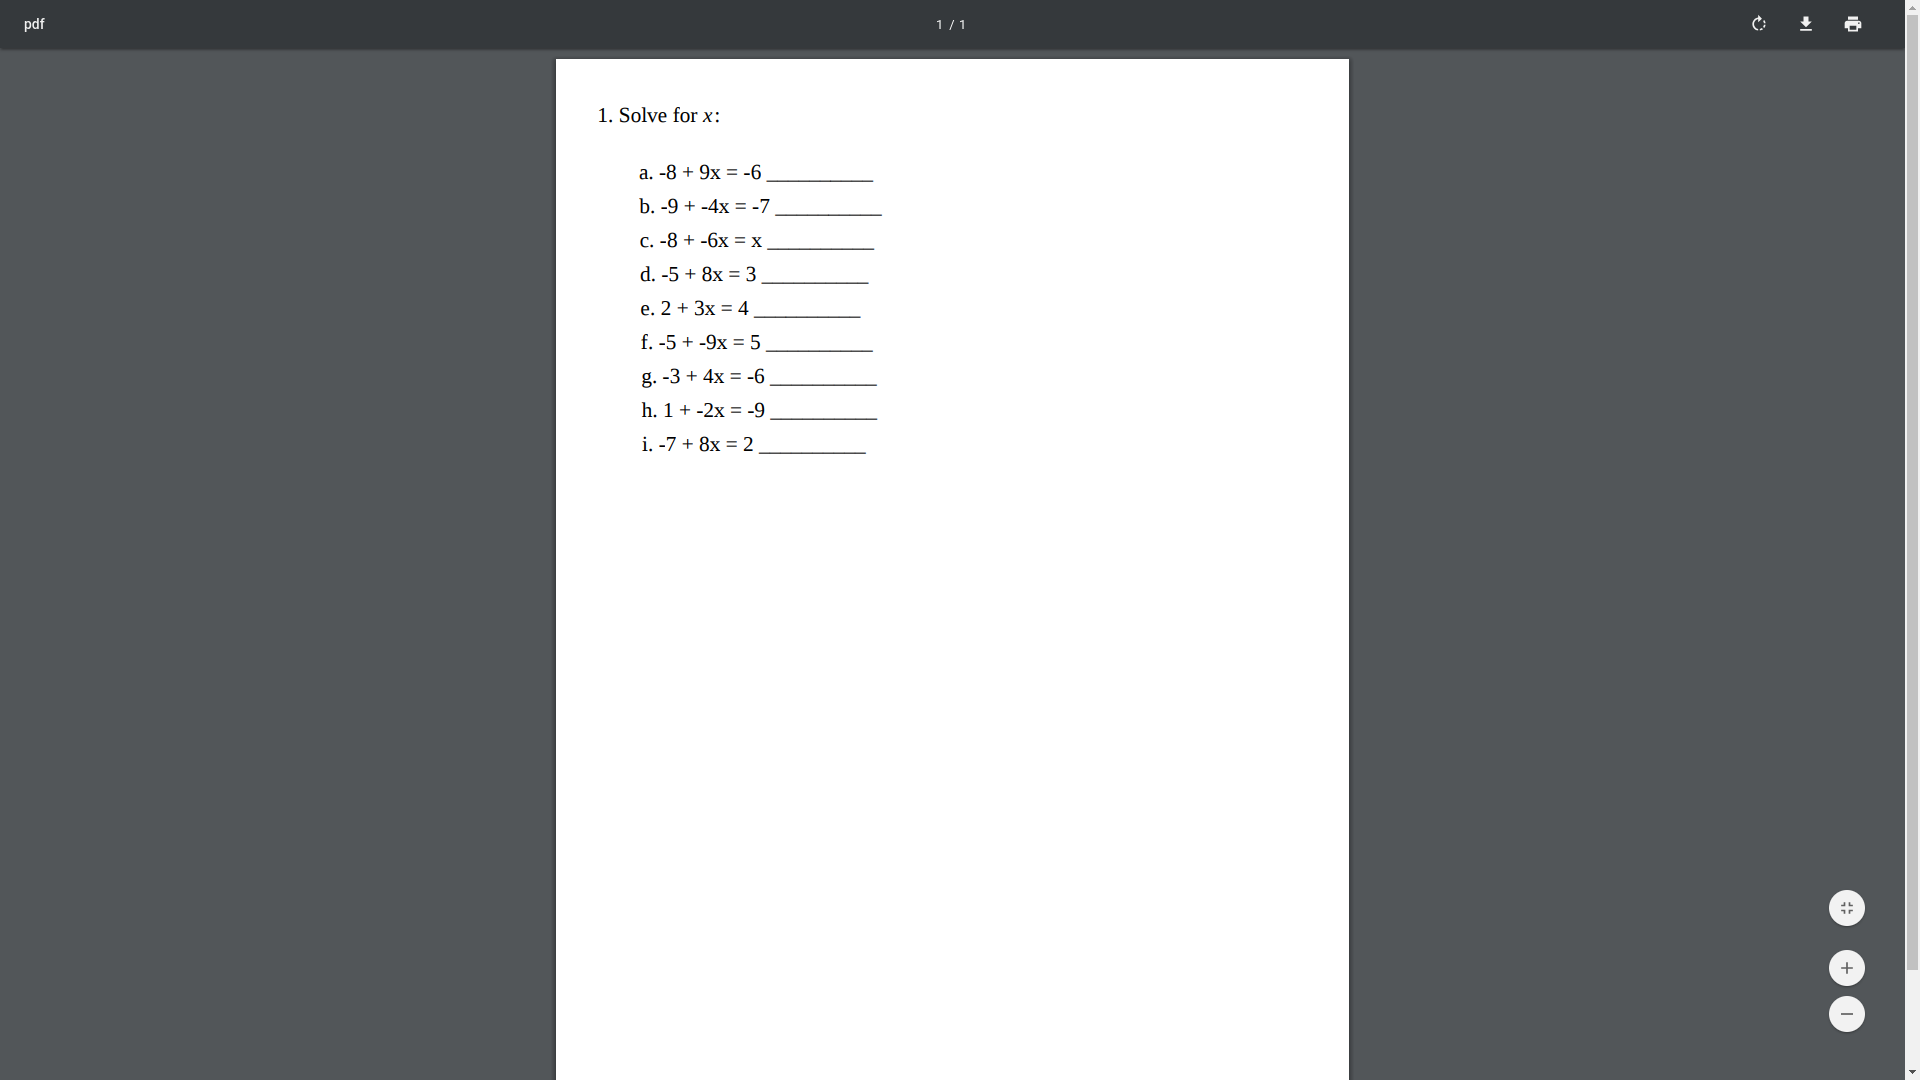
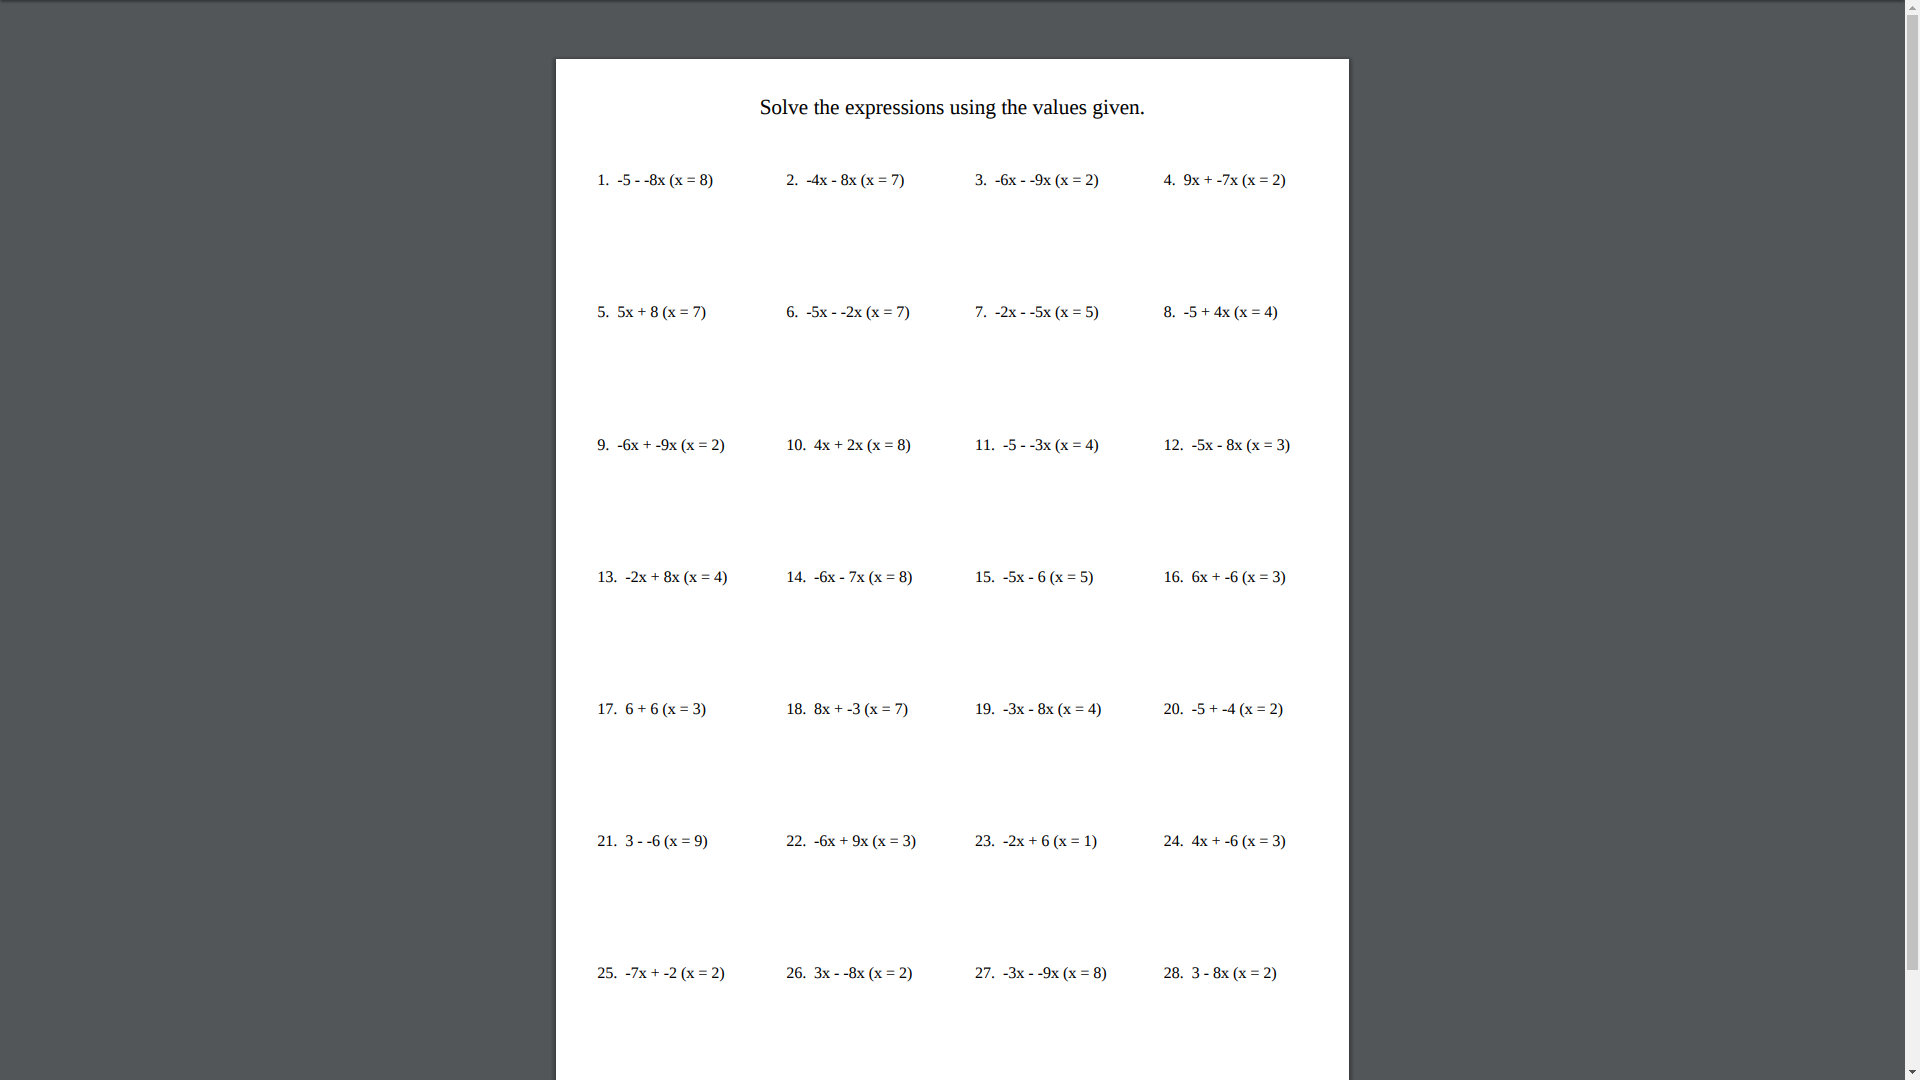
Reworked pdf engine

diff --git a/main.go b/main.go
@@ -25,6 +25,14 @@ func randbool() bool {
 	}
 }
 
+// I just grabbed this code from
+// golangcookbook.com/chapters/arrays/reverse
+func reverse(numbers []string) {
+	for i, j := 0, len(numbers)-1; i < j; i, j = i+1, j-1 {
+		numbers[i], numbers[j] = numbers[j], numbers[i]
+	}
+}
+
 func loopT(n int) []Term {
 	termSlice := make([]Term, 0)
 	for i := 0; i < n; i++ {
@@ -42,6 +50,9 @@ type Term struct {
 	Degree      int
 }
 
+// GenTerm generates a completely
+// random term. This is the backbone
+// of the whole program.
 func GenTerm(degree int) Term {
 	rand.Seed(time.Now().UnixNano())
 	cof := rand.Intn(8) + 2
@@ -388,28 +399,44 @@ func main() {
 		pdf := gofpdf.New("P", "mm", "A4", "")
 		pdf.AddPage()
 		pdf.SetFont("Times", "", 16)
-		pdf.Cell(28, 10, "1. Solve for")
-		pdf.SetFont("Times", "I", 16)
-		pdf.Cell(3, 10, "x")
-		pdf.SetFont("Times", "", 16)
-		pdf.Cell(-20, 10, ":")
-		// make a for loop with lots of numbers representing the problems
-		// pdf.Cell(0.1, 40, "1. 12x * 3 = 4")
-		questions := make([]string, 0)
-		for i := 1; i < 10; i++ {
-			questions = append(questions, NewLinearEquation().FormatEquation())
+		pdf.CellFormat(190, 20, "Solve the expressions using the values given.", "", 1, "TC", false, 0, "")
+		dataSlice := make([]AlgebraExpr, 0)
+		data := make([]string, 0)
+		for i := 0; i < 28; i++ {
+			dataSlice = append(dataSlice, NewAlgebraExpr())
 		}
-		alphabet := "abcdefghijklmnopqrstuvwxyz"
-		var startPos float64 = 30
-		for i, v := range questions {
-			pdf.Cell(0.1, startPos+10, fmt.Sprintf("%s. %s __________", string(alphabet[i]), v))
-			startPos += 18
+		for i, v := range dataSlice {
+			data = append(data, fmt.Sprintf("%d.  %s", i+1, v.FormatExpr()))
 		}
-		w.Header().Set("Content-Type", "application/pdf")
+		reverse(data)
+		pdf.SetFont("Times", "", 12)
+		// WARNING UNREADABLE CODE AHEAD!
+		// READ AT YOUR OWN RISK!
+		for i := 1; i < 4; i++ {
+			for j := 1; j < 4; j++ {
+				var x string
+				x, data = data[len(data)-1], data[:len(data)-1]
+				pdf.CellFormat(50, 0, x, "", 0, "LT", false, 0, "")
+			}
+			var x string
+			x, data = data[len(data)-1], data[:len(data)-1]
+			pdf.CellFormat(50, 35, x, "", 1, "LT", false, 0, "")
+			for k := 1; k < 4; k++ {
+				x, data = data[len(data)-1], data[:len(data)-1]
+				pdf.CellFormat(50, 35, x, "", 0, "LT", false, 0, "")
+			}
+			x, data = data[len(data)-1], data[:len(data)-1]
+			pdf.CellFormat(50, 35, x, "", 1, "LT", false, 0, "")
+		}
+		var x string
+		for j := 1; j < 5; j++ {
+			x, data = data[len(data)-1], data[:len(data)-1]
+			pdf.CellFormat(50, 0, x, "", 0, "LT", false, 0, "")
+		}
 		err := pdf.Output(w)
 		if err != nil {
-			w.Header().Set("Content-Type", "application/json")
-			fmt.Fprintf(w, "{\"msg\": \"Error while processing PDF document: %v\", \"code\": 500}", err)
+			fmt.Fprintf(w, "{\"msg\":\"Can't give pdf output because: %v\", \"code\": 500}", err)
+			return
 		}
 	})
 	fmt.Println("Starting API server.")
